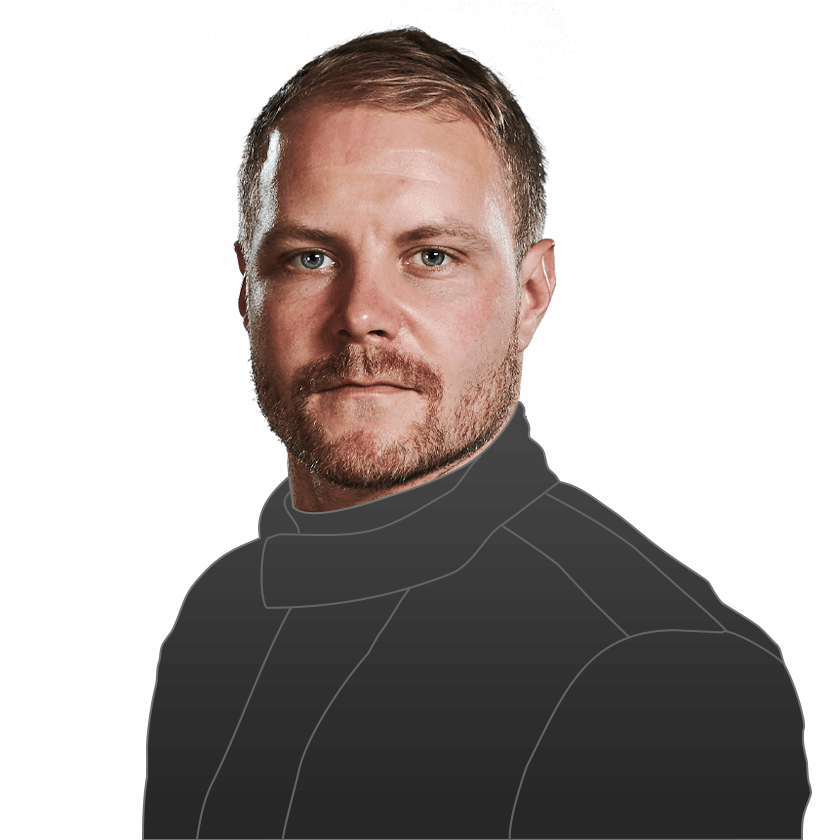
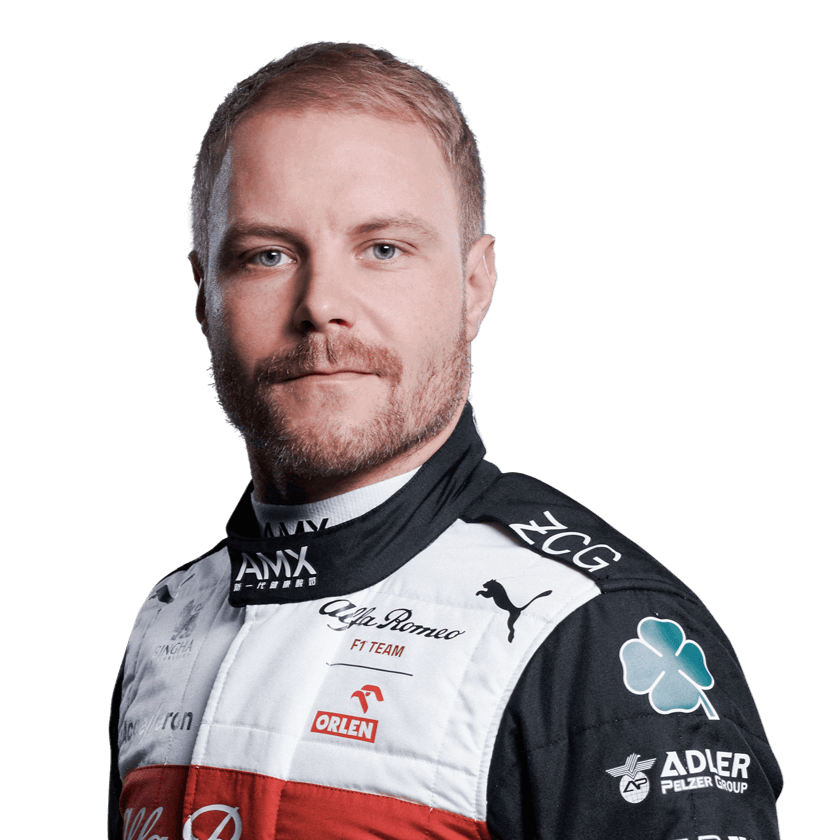
atualiza algumas imagens de pilotos e cria o model de aposta

diff --git a/db/schema.rb b/db/schema.rb
@@ -10,7 +10,27 @@
 #
 # It's strongly recommended that you check this file into your version control system.
 
-ActiveRecord::Schema.define(version: 2022_05_07_005343) do
+ActiveRecord::Schema.define(version: 2022_05_07_064116) do
+
+  create_table "bets", force: :cascade do |t|
+    t.integer "user_id", null: false
+    t.string "circuit"
+    t.integer "year"
+    t.string "pole_position"
+    t.string "first"
+    t.string "second"
+    t.string "third"
+    t.string "fourth"
+    t.string "fifth"
+    t.string "sixth"
+    t.string "seventh"
+    t.string "eighth"
+    t.string "ninth"
+    t.string "tenth"
+    t.datetime "created_at", precision: 6, null: false
+    t.datetime "updated_at", precision: 6, null: false
+    t.index ["user_id"], name: "index_bets_on_user_id"
+  end
 
   create_table "formula_one_drivers", force: :cascade do |t|
     t.string "Name"
@@ -22,6 +42,8 @@ ActiveRecord::Schema.define(version: 2022_05_07_005343) do
     t.integer "year"
     t.datetime "created_at", precision: 6, null: false
     t.datetime "updated_at", precision: 6, null: false
+    t.string "photo_img"
+    t.string "number_img"
   end
 
   create_table "users", force: :cascade do |t|
@@ -36,4 +58,5 @@ ActiveRecord::Schema.define(version: 2022_05_07_005343) do
     t.index ["reset_password_token"], name: "index_users_on_reset_password_token", unique: true
   end
 
+  add_foreign_key "bets", "users"
 end

diff --git a/db/migrate/20220507061727_create_bets.rb b/db/migrate/20220507061727_create_bets.rb
@@ -1,0 +1,22 @@
+class CreateBets < ActiveRecord::Migration[6.1]
+  def change
+    create_table :bets do |t|
+      t.references :user, null: false, foreign_key: true
+      t.string :circuit
+      t.integer :year
+      t.string :pole_position
+      t.string :first
+      t.string :second
+      t.string :third
+      t.string :fourth
+      t.string :fifth
+      t.string :sixth
+      t.string :seventh
+      t.string :eighth
+      t.string :ninth
+      t.string :tenth
+
+      t.timestamps
+    end
+  end
+end

diff --git a/spec/factories/bets.rb b/spec/factories/bets.rb
@@ -1,0 +1,18 @@
+FactoryBot.define do
+  factory :bet do
+    user { nil }
+    circuit { 'Miami' }
+    year { 2022 }
+    pole_position { 'LEC' }
+    first { 'LEC' }
+    second { 'VER' }
+    third { 'PER' }
+    fourth { 'RUS' }
+    fifth { 'SAI' }
+    sixth { 'NOR' }
+    seventh { 'HAM' }
+    eighth { 'BOT' }
+    ninth { 'OCO' }
+    tenth { 'MAG' }
+  end
+end

diff --git a/db/migrate/20220507064116_add_photo_and_number_img_to_formula_one_drivers.rb b/db/migrate/20220507064116_add_photo_and_number_img_to_formula_one_drivers.rb
@@ -1,0 +1,6 @@
+class AddPhotoAndNumberImgToFormulaOneDrivers < ActiveRecord::Migration[6.1]
+  def change
+    add_column :formula_one_drivers, :photo_img, :string
+    add_column :formula_one_drivers, :number_img, :string
+  end
+end

diff --git a/spec/factories/formula_one_drivers.rb b/spec/factories/formula_one_drivers.rb
@@ -7,5 +7,7 @@ FactoryBot.define do
     Position { 1 }
     points { 100 }
     year { 2022 }
+    number_img { 'hamilton_logo.png' }
+    photo_img { 'hamilton_photo.img' }
   end
 end

diff --git a/spec/models/bet_spec.rb b/spec/models/bet_spec.rb
@@ -1,0 +1,4 @@
+require 'rails_helper'
+
+RSpec.describe Bet, type: :model do
+end

diff --git a/app/models/bet.rb b/app/models/bet.rb
@@ -1,0 +1,3 @@
+class Bet < ApplicationRecord
+  belongs_to :user
+end
